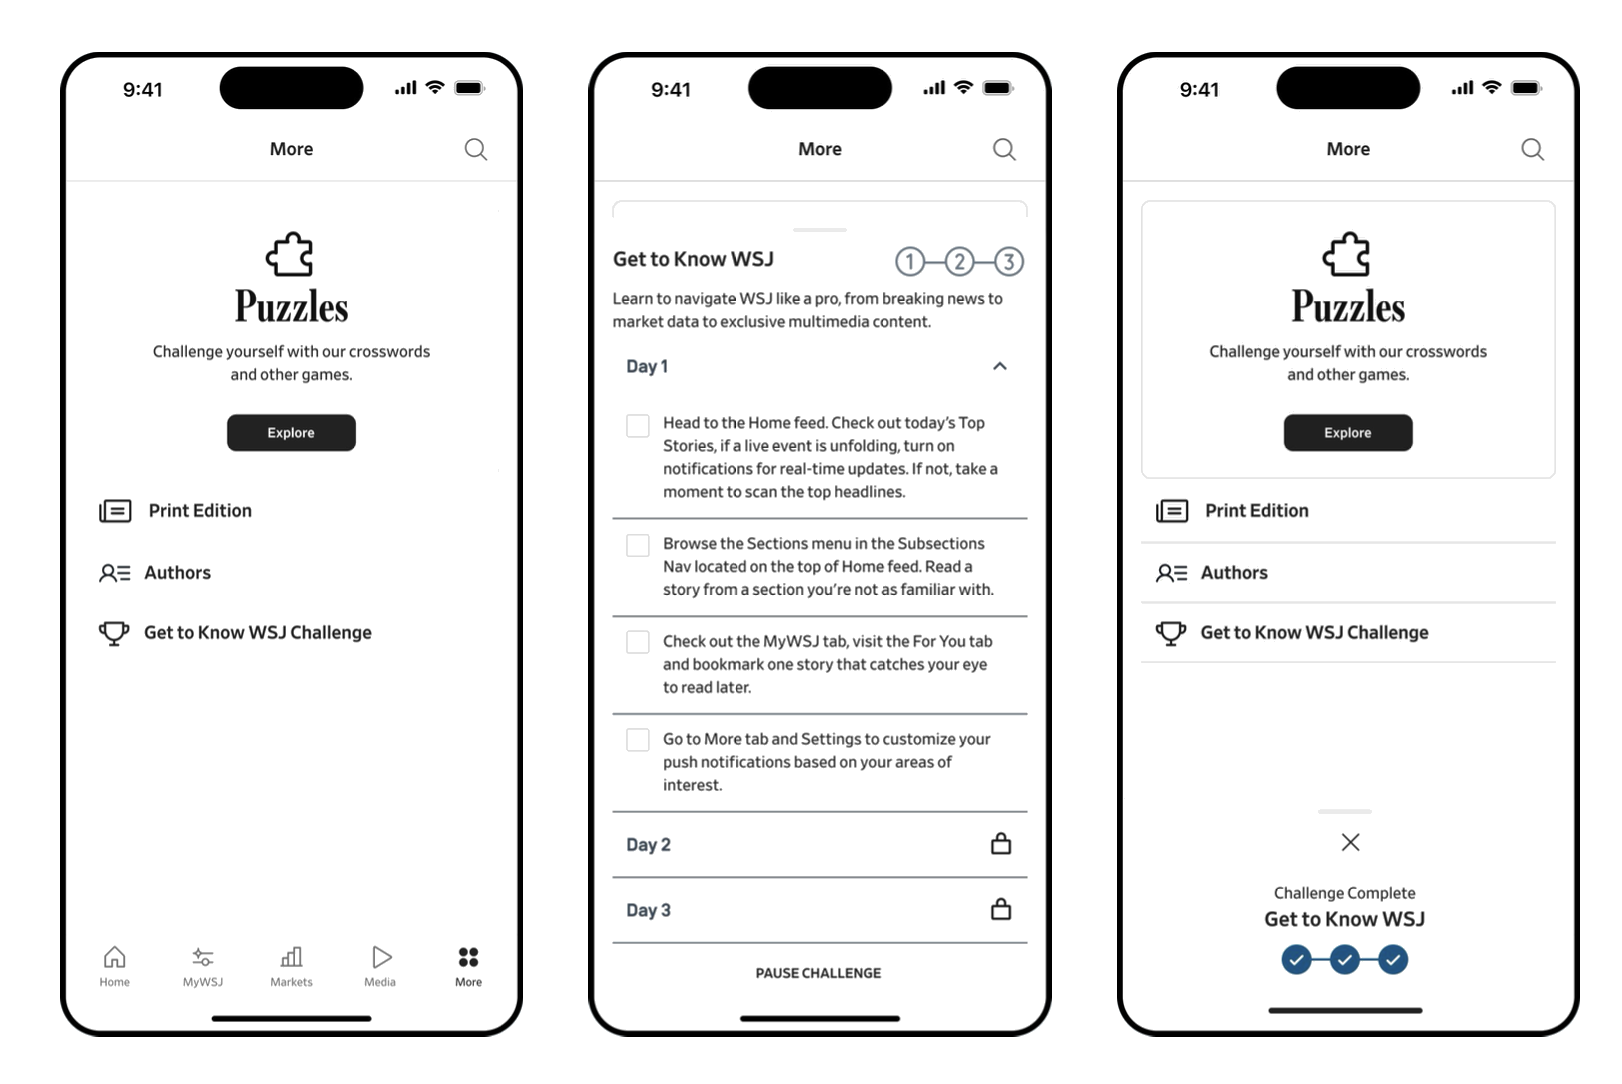
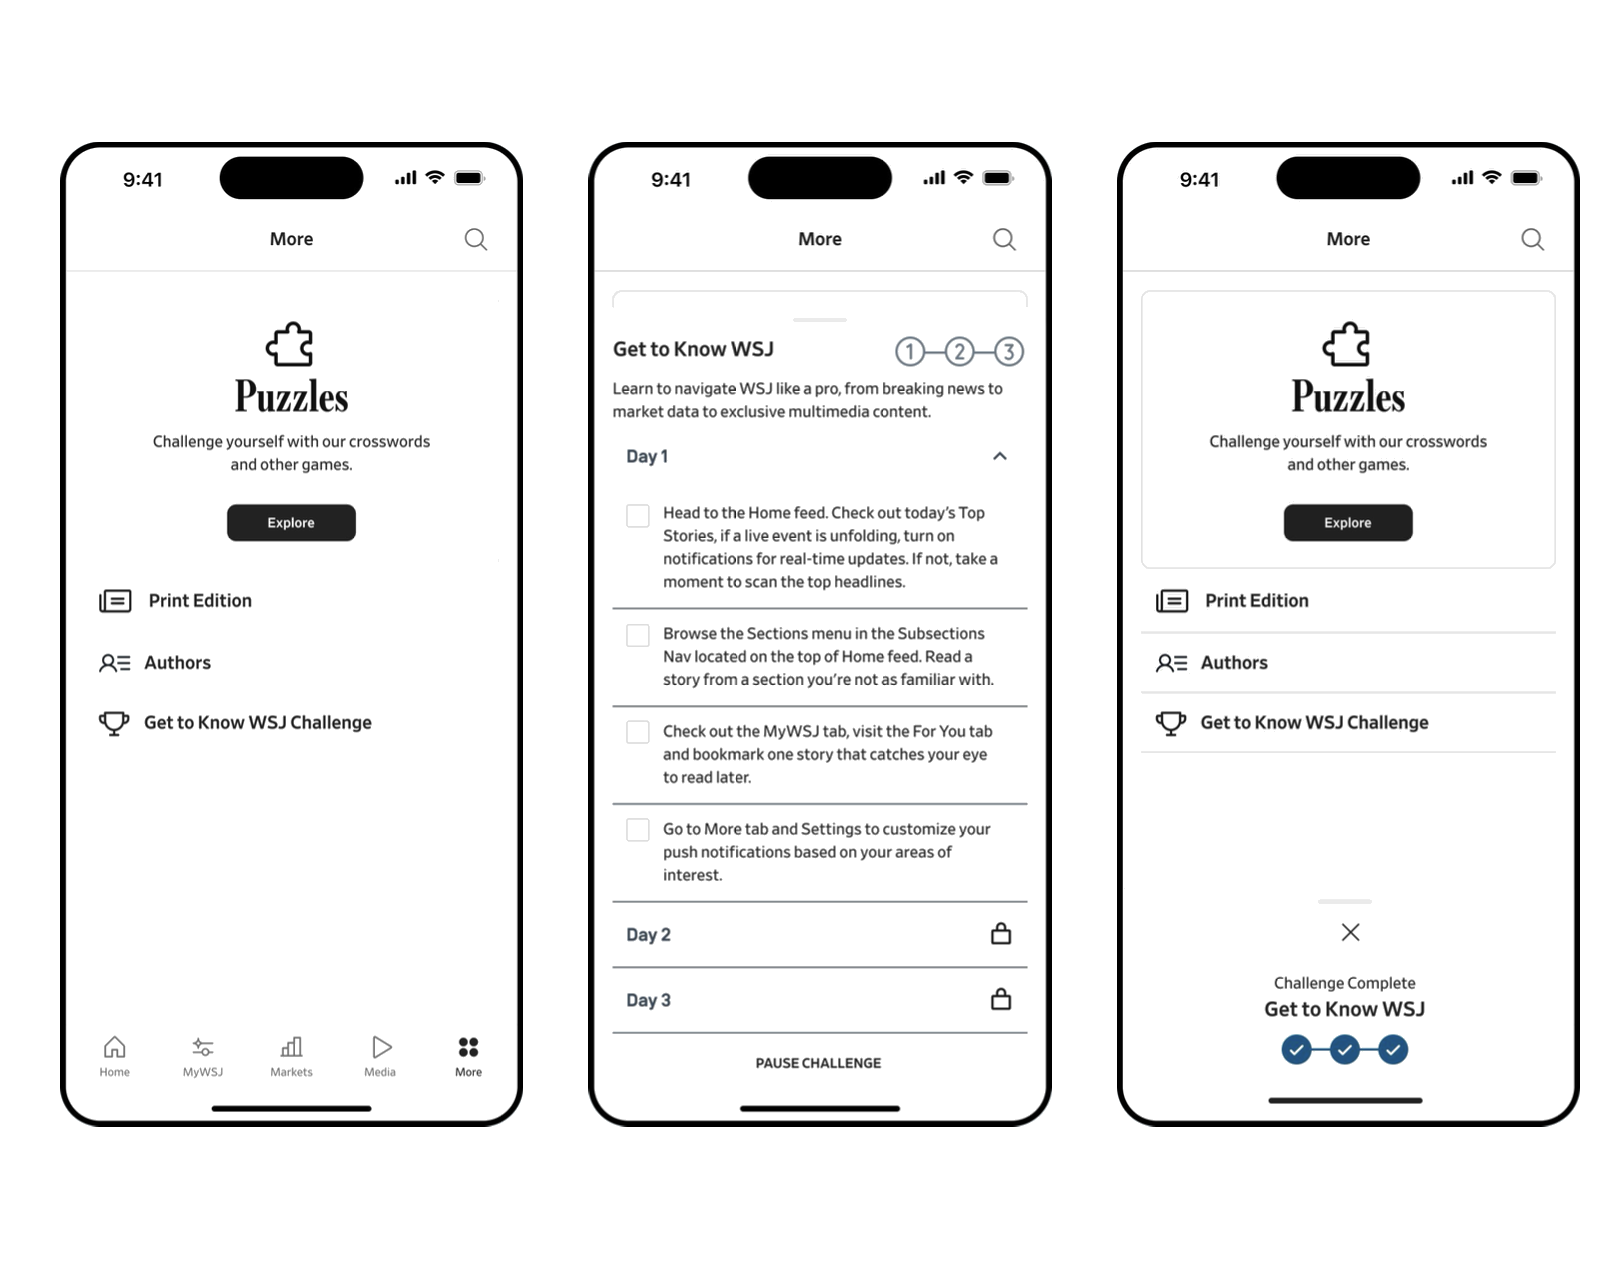
Add more white space above/below WSJ Challenges hero image, match container aspect to avoid crop

diff --git a/src/components/CaseStudy.tsx b/src/components/CaseStudy.tsx
@@ -52,22 +52,24 @@ export function CaseStudyHero({
   caption,
   src,
   alt,
+  aspect = "aspect-[16/10]",
 }: {
   label: string;
   caption: string;
   src?: string;
   alt?: string;
+  aspect?: string;
 }) {
   return (
     <div className="mx-auto max-w-3xl px-6 pt-10">
       {src ? (
         <figure>
-          <div className="overflow-hidden border border-line">
+          <div className={`overflow-hidden border border-line ${aspect}`}>
             {/* eslint-disable-next-line @next/next/no-img-element */}
             <img
               src={src}
               alt={alt ?? caption}
-              className="aspect-[16/10] w-full object-cover"
+              className="h-full w-full object-cover"
             />
           </div>
           <figcaption className="mt-3 font-sans text-xs italic text-stone">
@@ -75,7 +77,7 @@ export function CaseStudyHero({
           </figcaption>
         </figure>
       ) : (
-        <PlaceholderImage label={label} caption={caption} className="aspect-[16/10] w-full" />
+        <PlaceholderImage label={label} caption={caption} className={`${aspect} w-full`} />
       )}
     </div>
   );

diff --git a/src/app/work/wsj-challenges/page.tsx b/src/app/work/wsj-challenges/page.tsx
@@ -37,6 +37,7 @@ export default function WSJChallenges() {
           src="/work/wsj-challenges-hero.png"
           alt="Three WSJ Beta app screens: the Get to Know WSJ challenge entry point, the Day 1 checklist, and the challenge completion screen"
           caption="Challenge entry point, Day 1 checklist, and completion screen"
+          aspect="aspect-[1622/1264]"
         />
 
         <TLDR>
